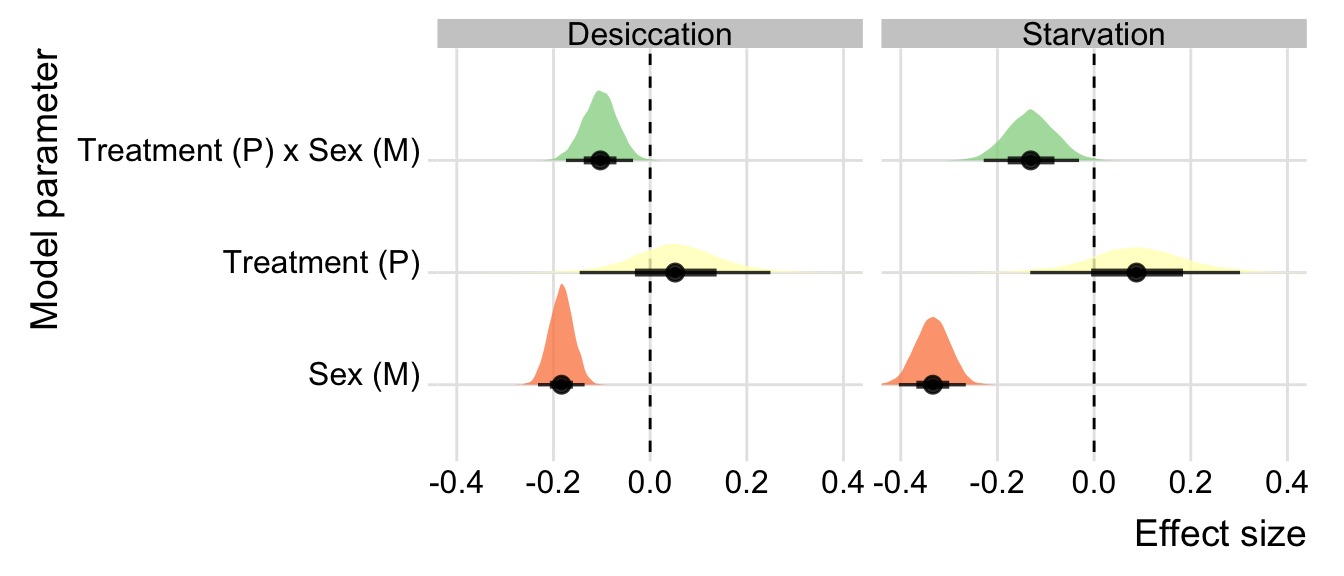
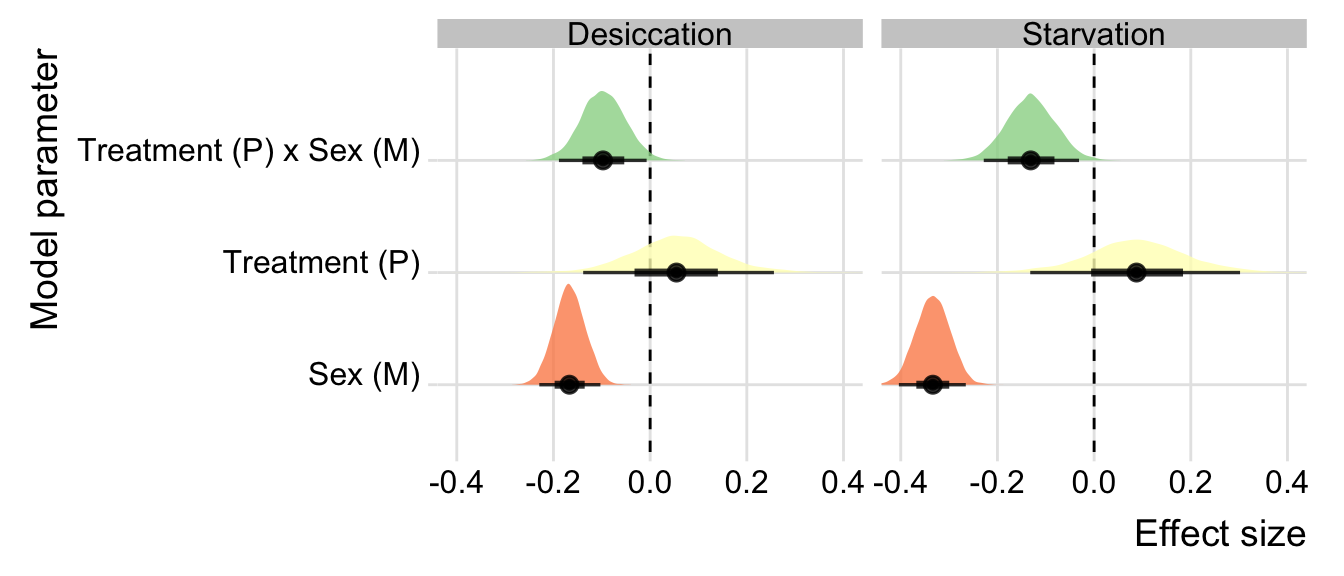
Build site.

diff --git a/docs/resistance.html b/docs/resistance.html
@@ -445,7 +445,7 @@ div.tocify {
 <div class="tab-content">
 <div id="summary" class="tab-pane fade in active">
 <p>
-<strong>Last updated:</strong> 2021-01-18
+<strong>Last updated:</strong> 2021-01-19
 </p>
 <p>
 <strong>Checks:</strong> <span class="glyphicon glyphicon-ok text-success" aria-hidden="true"></span> 7 <span class="glyphicon glyphicon-exclamation-sign text-danger" aria-hidden="true"></span> 0
@@ -536,16 +536,16 @@ This reproducible <a href="http://rmarkdown.rstudio.com">R Markdown</a> analysis
 <div class="panel panel-default">
 <div class="panel-heading">
 <p class="panel-title">
-<a data-toggle="collapse" data-parent="#workflowr-checks" href="#strongRepositoryversionstrongahrefhttpsgithubcomlukeholmanexpevolrespirationtreec2d846fc2a9cc72bfee6123cd5f65bd48d73cd6atargetblankc2d846fa"> <span class="glyphicon glyphicon-ok text-success" aria-hidden="true"></span> <strong>Repository version:</strong> <a href="https://github.com/lukeholman/exp_evol_respiration/tree/c2d846fc2a9cc72bfee6123cd5f65bd48d73cd6a" target="_blank">c2d846f</a> </a>
+<a data-toggle="collapse" data-parent="#workflowr-checks" href="#strongRepositoryversionstrongahrefhttpsgithubcomlukeholmanexpevolrespirationtree7bf6463758e985d1c39571b197be60c4cd4aaf4atargetblank7bf6463a"> <span class="glyphicon glyphicon-ok text-success" aria-hidden="true"></span> <strong>Repository version:</strong> <a href="https://github.com/lukeholman/exp_evol_respiration/tree/7bf6463758e985d1c39571b197be60c4cd4aaf4a" target="_blank">7bf6463</a> </a>
 </p>
 </div>
[2 lines of base64/hex data omitted]
 <div class="panel-body">
 <p>
 Great! You are using Git for version control. Tracking code development and connecting the code version to the results is critical for reproducibility.
 </p>
 <p>
-The results in this page were generated with repository version <a href="https://github.com/lukeholman/exp_evol_respiration/tree/c2d846fc2a9cc72bfee6123cd5f65bd48d73cd6a" target="_blank">c2d846f</a>. See the <em>Past versions</em> tab to see a history of the changes made to the R Markdown and HTML files.
+The results in this page were generated with repository version <a href="https://github.com/lukeholman/exp_evol_respiration/tree/7bf6463758e985d1c39571b197be60c4cd4aaf4a" target="_blank">7bf6463</a>. See the <em>Past versions</em> tab to see a history of the changes made to the R Markdown and HTML files.
 </p>
 <p>
 Note that you need to be careful to ensure that all relevant files for the analysis have been committed to Git prior to generating the results (you can use <code>wflow_publish</code> or <code>wflow_git_commit</code>). workflowr only checks the R Markdown file, but you know if there are other scripts or data files that it depends on. Below is the status of the Git repository when the results were generated:
@@ -601,6 +601,40 @@ Message
 </tr>
 </thead>
 <tbody>
+<tr>
+<td>
+Rmd
+</td>
+<td>
+<a href="https://github.com/lukeholman/exp_evol_respiration/blob/7bf6463758e985d1c39571b197be60c4cd4aaf4a/analysis/resistance.Rmd" target="_blank">7bf6463</a>
+</td>
+<td>
+Martin Garlovsky
+</td>
+<td>
+2021-01-19
+</td>
+<td>
+wflow_publish(“analysis/resistance.Rmd”)
+</td>
+</tr>
+<tr>
+<td>
+html
+</td>
+<td>
+<a href="https://rawcdn.githack.com/lukeholman/exp_evol_respiration/709456c95d21a3528ad4dfa46afbe700888ef4ce/docs/resistance.html" target="_blank">709456c</a>
+</td>
+<td>
+Martin Garlovsky
+</td>
+<td>
+2021-01-18
+</td>
+<td>
+Build site.
+</td>
+</tr>
 <tr>
 <td>
 Rmd
@@ -1001,6 +1035,8 @@ start_timeSta &lt;- &quot;04/02/2017 12:00&quot;
 StaRes$survival.time &lt;- as.numeric(strptime(StaRes$d, format = &quot;%d/%m/%Y %H&quot;) - strptime(start_timeSta, format = &quot;%d/%m/%Y %H&quot;))
 
 # 5 individuals have missing survival times which we will right censor at max. survival time
+# Two M females (M2) were right censored as survival time not recorded
+# Three P females (P2 Vial 6 and P4 vial 9) were right censored as survival time not recorded
 StaRes[which(is.na(StaRes$survival.time)), &#39;EVENT&#39;] &lt;- 0
 StaRes[which(is.na(StaRes$survival.time)), &#39;survival.time&#39;] &lt;- max(na.omit(StaRes$survival.time))</code></pre>
 </div>
@@ -1045,6 +1081,17 @@ Date
 </tr>
 </thead>
 <tbody>
+<tr>
+<td>
+<a href="https://github.com/lukeholman/exp_evol_respiration/blob/709456c95d21a3528ad4dfa46afbe700888ef4ce/docs/figure/resistance.Rmd/unnamed-chunk-3-1.png" target="_blank">709456c</a>
+</td>
+<td>
+Martin Garlovsky
+</td>
+<td>
+2021-01-18
+</td>
+</tr>
 <tr>
 <td>
 <a href="https://github.com/lukeholman/exp_evol_respiration/blob/989e86ff1733879de61f286d01a7386021a6a84d/docs/figure/resistance.Rmd/unnamed-chunk-3-1.png" target="_blank">989e86f</a>
@@ -1097,7 +1144,7 @@ Martin Garlovsky
 </div>
 <div id="survival-analysis" class="section level1">
 <h1>Survival analysis</h1>
-<p>We modeled desiccation and starvation resistance using survival analysis. We measured time in hours until death (<code>EVENT</code> = 1) for single sex triads of flies housed in vials (n = 20 per replicate per sex) containing moisture only (agar media) or food and moisture (normal media). Our observation period concluded when all flies perished. However, due to… some individuals were right censored (<code>EVENT</code> = 0) at the end of the observation period…</p>
+<p>We modeled desiccation and starvation resistance using survival analysis. We measured time in hours until death (<code>EVENT</code> = 1) for single sex triads of flies housed in vials (n = 7-10 vials per replicate per sex) containing no media and silica gel beads between the cotton and parafilm enclosing the vial (desiccation resistance) or an agar media providing moisture only (starvation resistance). We monitored vials for deaths every two hours until all flies perished. For the starvation resistance assay five individuals (two M females and three P females) were right censored (<code>EVENT</code> = 0) at the end of the observation period as death times were not recorded or remained alive.</p>
 <div id="kaplan-meier-survival-curve" class="section level3">
 <h3>Kaplan-Meier survival curve</h3>
 <p>First we plot Kaplan-Meier survival curves.</p>
@@ -1136,6 +1183,17 @@ Date
 </tr>
 </thead>
 <tbody>
+<tr>
+<td>
+<a href="https://github.com/lukeholman/exp_evol_respiration/blob/709456c95d21a3528ad4dfa46afbe700888ef4ce/docs/figure/resistance.Rmd/unnamed-chunk-4-1.png" target="_blank">709456c</a>
+</td>
+<td>
+Martin Garlovsky
+</td>
+<td>
+2021-01-18
+</td>
+</tr>
 <tr>
 <td>
 <a href="https://github.com/lukeholman/exp_evol_respiration/blob/989e86ff1733879de61f286d01a7386021a6a84d/docs/figure/resistance.Rmd/unnamed-chunk-4-1.png" target="_blank">989e86f</a>
@@ -1208,6 +1266,17 @@ Date
 </tr>
 </thead>
 <tbody>
+<tr>
+<td>
+<a href="https://github.com/lukeholman/exp_evol_respiration/blob/709456c95d21a3528ad4dfa46afbe700888ef4ce/docs/figure/resistance.Rmd/unnamed-chunk-4-2.png" target="_blank">709456c</a>
+</td>
+<td>
+Martin Garlovsky
+</td>
+<td>
+2021-01-18
+</td>
+</tr>
 <tr>
 <td>
 <a href="https://github.com/lukeholman/exp_evol_respiration/blob/989e86ff1733879de61f286d01a7386021a6a84d/docs/figure/resistance.Rmd/unnamed-chunk-4-2.png" target="_blank">989e86f</a>
@@ -1295,6 +1364,17 @@ Date
 <tbody>
 <tr>
 <td>
+<a href="https://github.com/lukeholman/exp_evol_respiration/blob/709456c95d21a3528ad4dfa46afbe700888ef4ce/docs/figure/resistance.Rmd/unnamed-chunk-5-1.png" target="_blank">709456c</a>
+</td>
+<td>
+Martin Garlovsky
+</td>
+<td>
+2021-01-18
+</td>
+</tr>
+<tr>
+<td>
 <a href="https://github.com/lukeholman/exp_evol_respiration/blob/989e86ff1733879de61f286d01a7386021a6a84d/docs/figure/resistance.Rmd/unnamed-chunk-5-1.png" target="_blank">989e86f</a>
 </td>
 <td>
@@ -1327,7 +1407,7 @@ Martin Garlovsky
 <pre class="r"><code>if(!file.exists(&quot;output/des_brm.rds&quot;)){ # if the model doesn&#39;t exist fit it, else load it
   
   des_brm &lt;- brm(survival.time | cens(1 - EVENT) ~ Treatment * Sex + (Treatment|LINE) + (1|ID),
-               prior = c(set_prior(&quot;normal(0,1)&quot;, class = &quot;b&quot;),
+               prior = c(set_prior(&quot;normal(0,0.5)&quot;, class = &quot;b&quot;),
                          set_prior(&quot;cauchy(0,0.1)&quot;, class = &quot;sd&quot;)),
                iter = 5000, chains = 4, cores = 4,
                control = list(max_treedepth = 20,
@@ -1360,7 +1440,7 @@ if(!file.exists(&quot;output/sta_brm.rds&quot;)){ # if the model doesn&#39;t exi
 <h3 class="tabset">Table of model parameter estimates - eclosion time</h3>
 <div id="formatted-table" class="section level4">
 <h4>Formatted table</h4>
-<p>Taking the exponent of the coefficients gives an estimate of the multiplicative effect of the time to event compared to baseline (Monogamy females) (<a href="http://rstudio-pubs-static.s3.amazonaws.com/5564_bc9e2d9a458c4660aa82882df90b7a6b.html">see here</a>). For instance, for desiccation resistance, being male accelerates time to event by a factor of exp(-0.183) = 0.832, i.e. Monogamy males live 0.832 times shorter than Monogamy females.</p>
+<p>Taking the exponent of the coefficients gives an estimate of the multiplicative effect of the time to event compared to baseline (Monogamy females) (<a href="http://rstudio-pubs-static.s3.amazonaws.com/5564_bc9e2d9a458c4660aa82882df90b7a6b.html">see here</a>). For instance, for desiccation resistance, being male accelerates time to event by a factor of exp(-0.167) = 0.847, i.e. Monogamy males live 0.847 times shorter than Monogamy females.</p>
 <pre class="r"><code>des_test &lt;- bind_rows(
   hypothesis(des_brm, &#39;TreatmentP = 0&#39;)$hypothesis,
   hypothesis(des_brm, &#39;Sexm = 0&#39;)$hypothesis,
@@ -1447,19 +1527,19 @@ p
 Treatment (P)
 </td>
 <td style="text-align:right;">
-0.052
+0.055
 </td>
 <td style="text-align:right;">
-0.099
+0.098
 </td>
 <td style="text-align:right;">
--0.146
+-0.139
 </td>
 <td style="text-align:right;">
-0.249
+0.256
 </td>
 <td style="text-align:left;">
-0.277
+0.269
 </td>
 <td style="text-align:left;">
 </td>
@@ -1469,16 +1549,16 @@ Treatment (P)
 Sex (M)
 </td>
 <td style="text-align:right;">
--0.183
+-0.167
 </td>
 <td style="text-align:right;">
-0.025
+0.033
 </td>
 <td style="text-align:right;">
--0.232
+-0.229
 </td>
 <td style="text-align:right;">
--0.136
+-0.103
 </td>
 <td style="text-align:left;">
 &lt; 0.001
@@ -1492,19 +1572,19 @@ Sex (M)
 Treatment (P) x Sex (M)
 </td>
 <td style="text-align:right;">
--0.103
+-0.097
 </td>
 <td style="text-align:right;">
-0.035
+0.046
 </td>
 <td style="text-align:right;">
--0.174
+-0.189
 </td>
 <td style="text-align:right;">
--0.035
+-0.007
 </td>
 <td style="text-align:left;">
-0.002
+0.017
 </td>
 <td style="text-align:left;">
 *
@@ -1599,32 +1679,36 @@ Treatment (P) x Sex (M)
 <pre class="r"><code>des_brm</code></pre>
 <pre> Family: weibull 
   Links: mu = log; shape = identity 
-Formula: survival.time | cens(1 - EVENT) ~ Treatment * Sex + (Treatment | LINE) 
+Formula: survival.time | cens(1 - EVENT) ~ Treatment * Sex + (Treatment | LINE) + (1 | ID) 
    Data: DesRes (Number of observations: 438) 
 Samples: 4 chains, each with iter = 5000; warmup = 2500; thin = 1;
          total post-warmup samples = 10000
 
 Group-Level Effects: 
+~ID (Number of levels: 146) 
+              Estimate Est.Error l-95% CI u-95% CI Rhat Bulk_ESS Tail_ESS
+sd(Intercept)     0.11      0.01     0.09     0.13 1.00     2793     4912
+
 ~LINE (Number of levels: 8) 
                           Estimate Est.Error l-95% CI u-95% CI Rhat Bulk_ESS
-sd(Intercept)                 0.11      0.04     0.06     0.23 1.00     4265
-sd(TreatmentP)                0.08      0.07     0.00     0.27 1.00     2753
-cor(Intercept,TreatmentP)    -0.07      0.56    -0.95     0.94 1.00     5698
+sd(Intercept)                 0.11      0.04     0.05     0.22 1.00     3291
+sd(TreatmentP)                0.07      0.07     0.00     0.26 1.00     3111
+cor(Intercept,TreatmentP)    -0.15      0.57    -0.96     0.92 1.00     4892
                           Tail_ESS
-sd(Intercept)                 4823
-sd(TreatmentP)                4090
-cor(Intercept,TreatmentP)     5886
+sd(Intercept)                 5284
+sd(TreatmentP)                5026
+cor(Intercept,TreatmentP)     5213
 
 Population-Level Effects: 
                 Estimate Est.Error l-95% CI u-95% CI Rhat Bulk_ESS Tail_ESS
-Intercept           3.67      0.06     3.54     3.80 1.00     3653     4692
-TreatmentP          0.05      0.10    -0.15     0.25 1.00     3968     4620
-Sexm               -0.18      0.02    -0.23    -0.14 1.00     9161     8098
-TreatmentP:Sexm    -0.10      0.04    -0.17    -0.04 1.00     8761     7867
+Intercept           3.66      0.06     3.53     3.79 1.00     2749     4013
+TreatmentP          0.05      0.10    -0.14     0.26 1.00     2782     3535
+Sexm               -0.17      0.03    -0.23    -0.10 1.00     2900     4317
+TreatmentP:Sexm    -0.10      0.05    -0.19    -0.01 1.00     2685     4957
 
 Family Specific Parameters: 
       Estimate Est.Error l-95% CI u-95% CI Rhat Bulk_ESS Tail_ESS
-shape     5.74      0.20     5.35     6.15 1.00    13757     7786
+shape     7.56      0.37     6.86     8.29 1.00     4599     6970
 
 Samples were drawn using sampling(NUTS). For each parameter, Bulk_ESS
 and Tail_ESS are effective sample size measures, and Rhat is the potential
@@ -1728,6 +1812,17 @@ Date
 </tr>
 </thead>
 <tbody>
+<tr>
+<td>
+<a href="https://github.com/lukeholman/exp_evol_respiration/blob/709456c95d21a3528ad4dfa46afbe700888ef4ce/docs/figure/resistance.Rmd/unnamed-chunk-10-1.png" target="_blank">709456c</a>
+</td>
+<td>
+Martin Garlovsky
+</td>
+<td>
+2021-01-18
+</td>
+</tr>
 <tr>
 <td>
 <a href="https://github.com/lukeholman/exp_evol_respiration/blob/989e86ff1733879de61f286d01a7386021a6a84d/docs/figure/resistance.Rmd/unnamed-chunk-10-1.png" target="_blank">989e86f</a>
